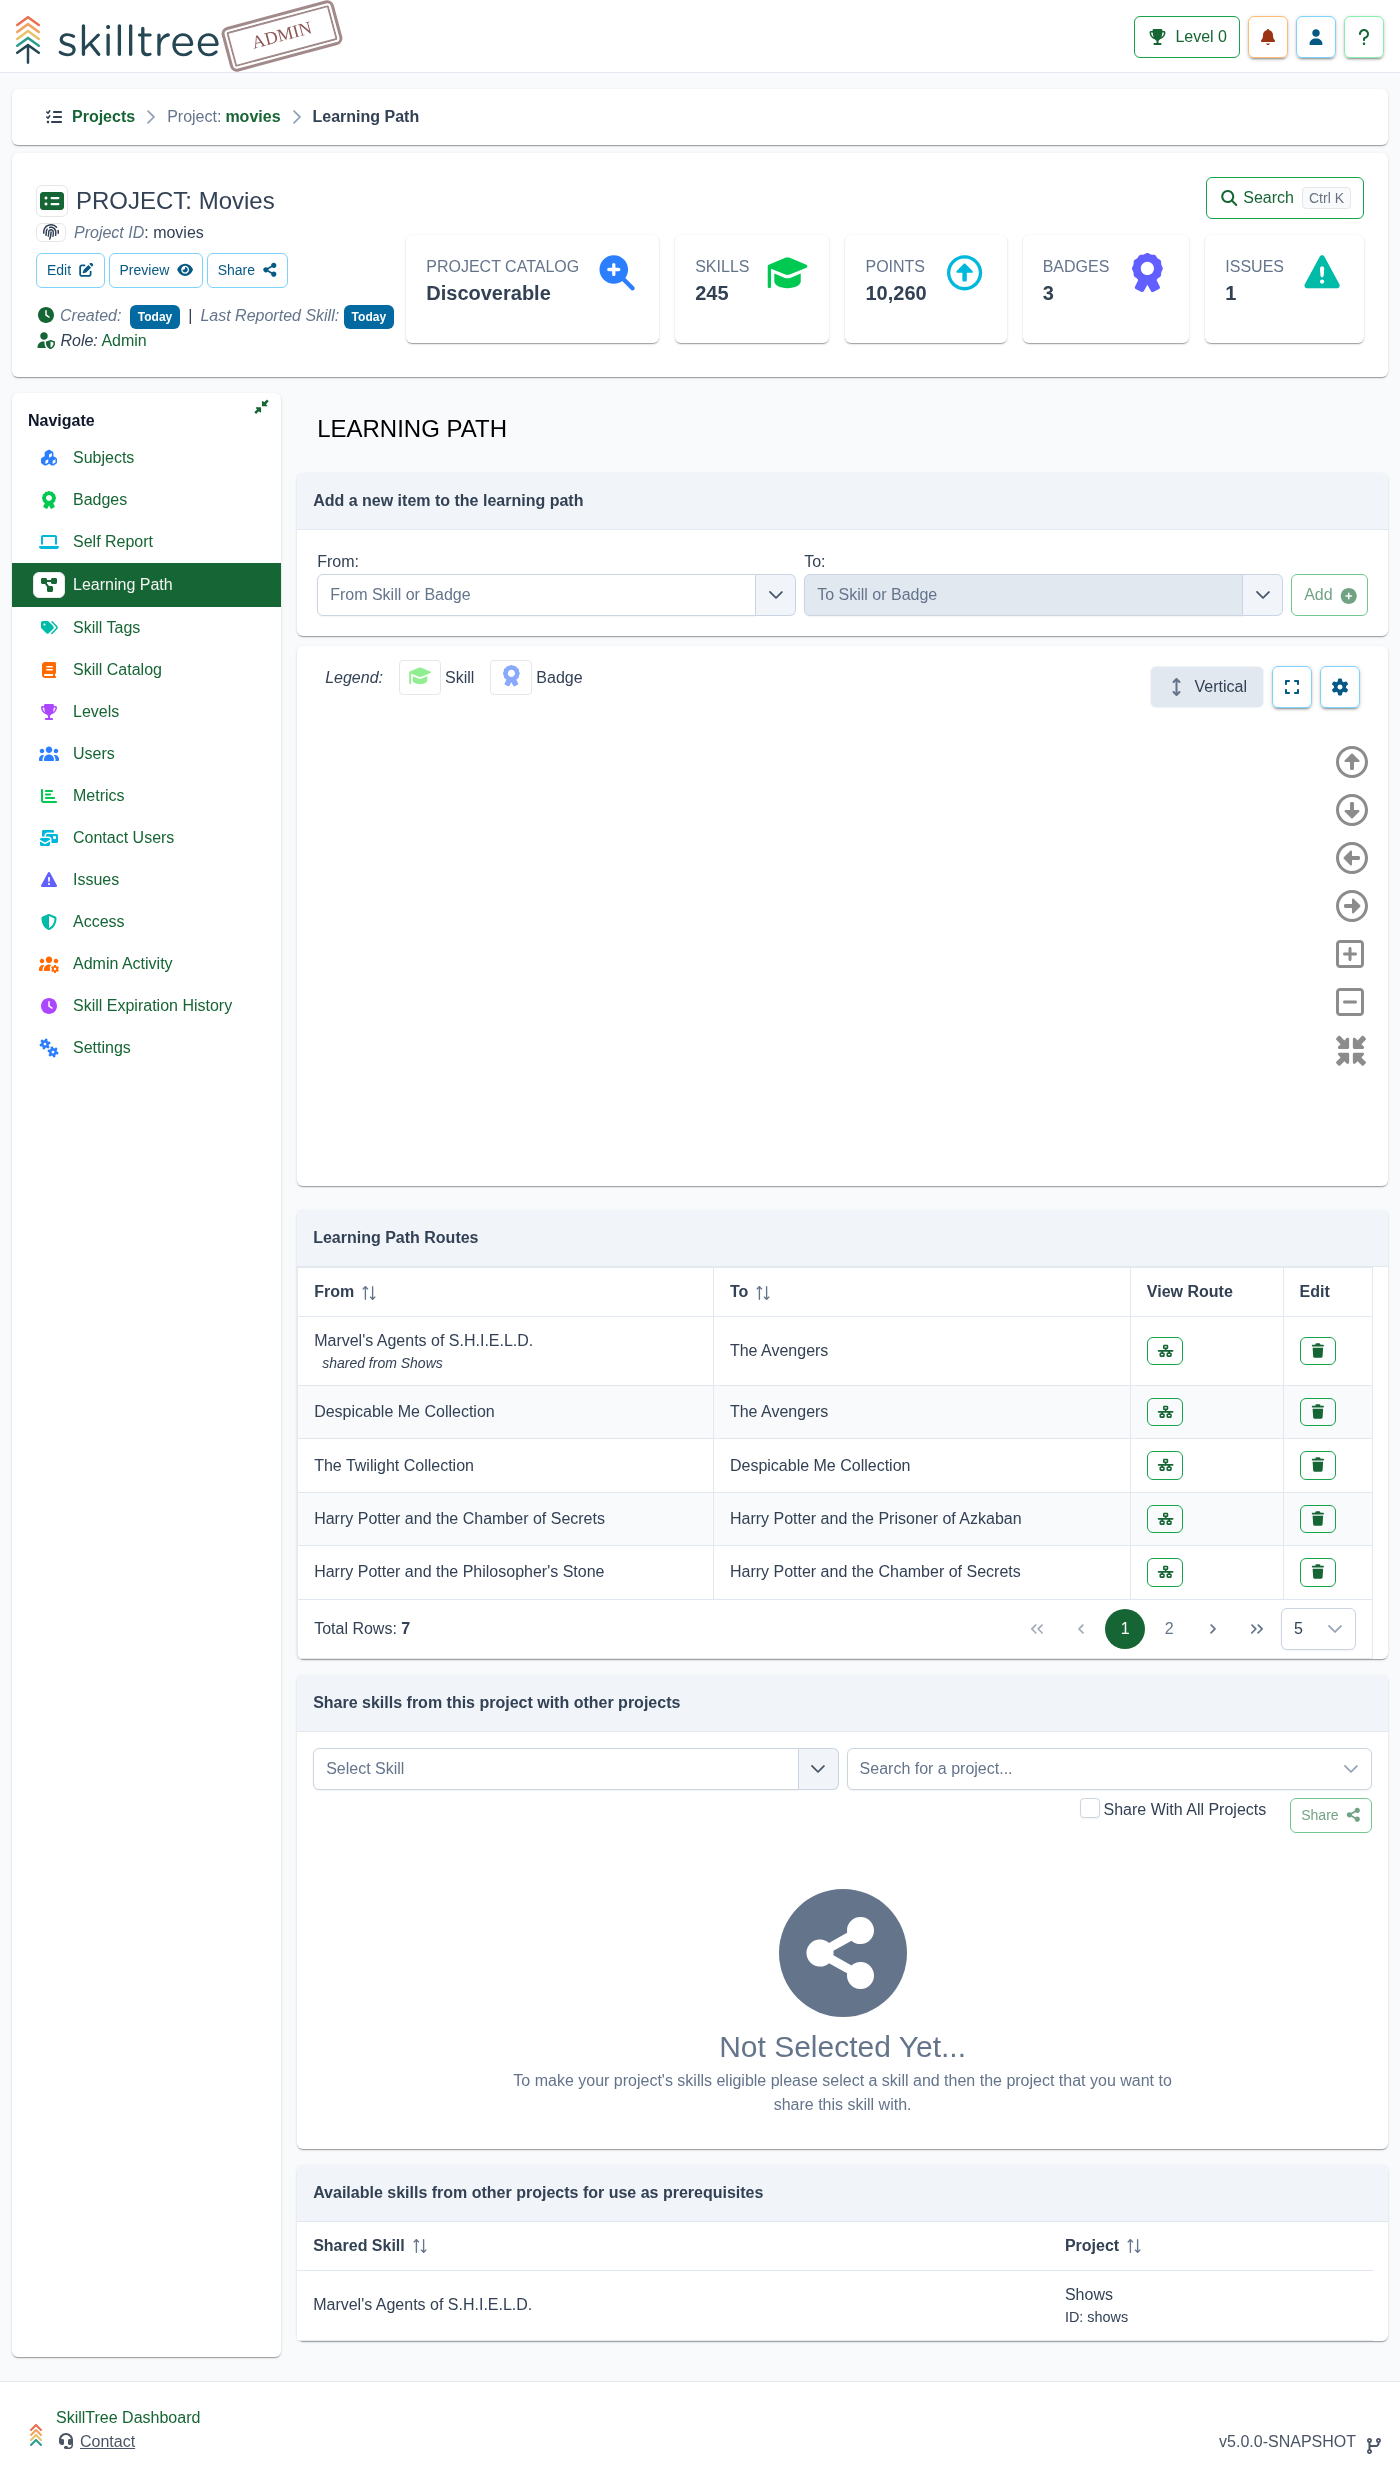
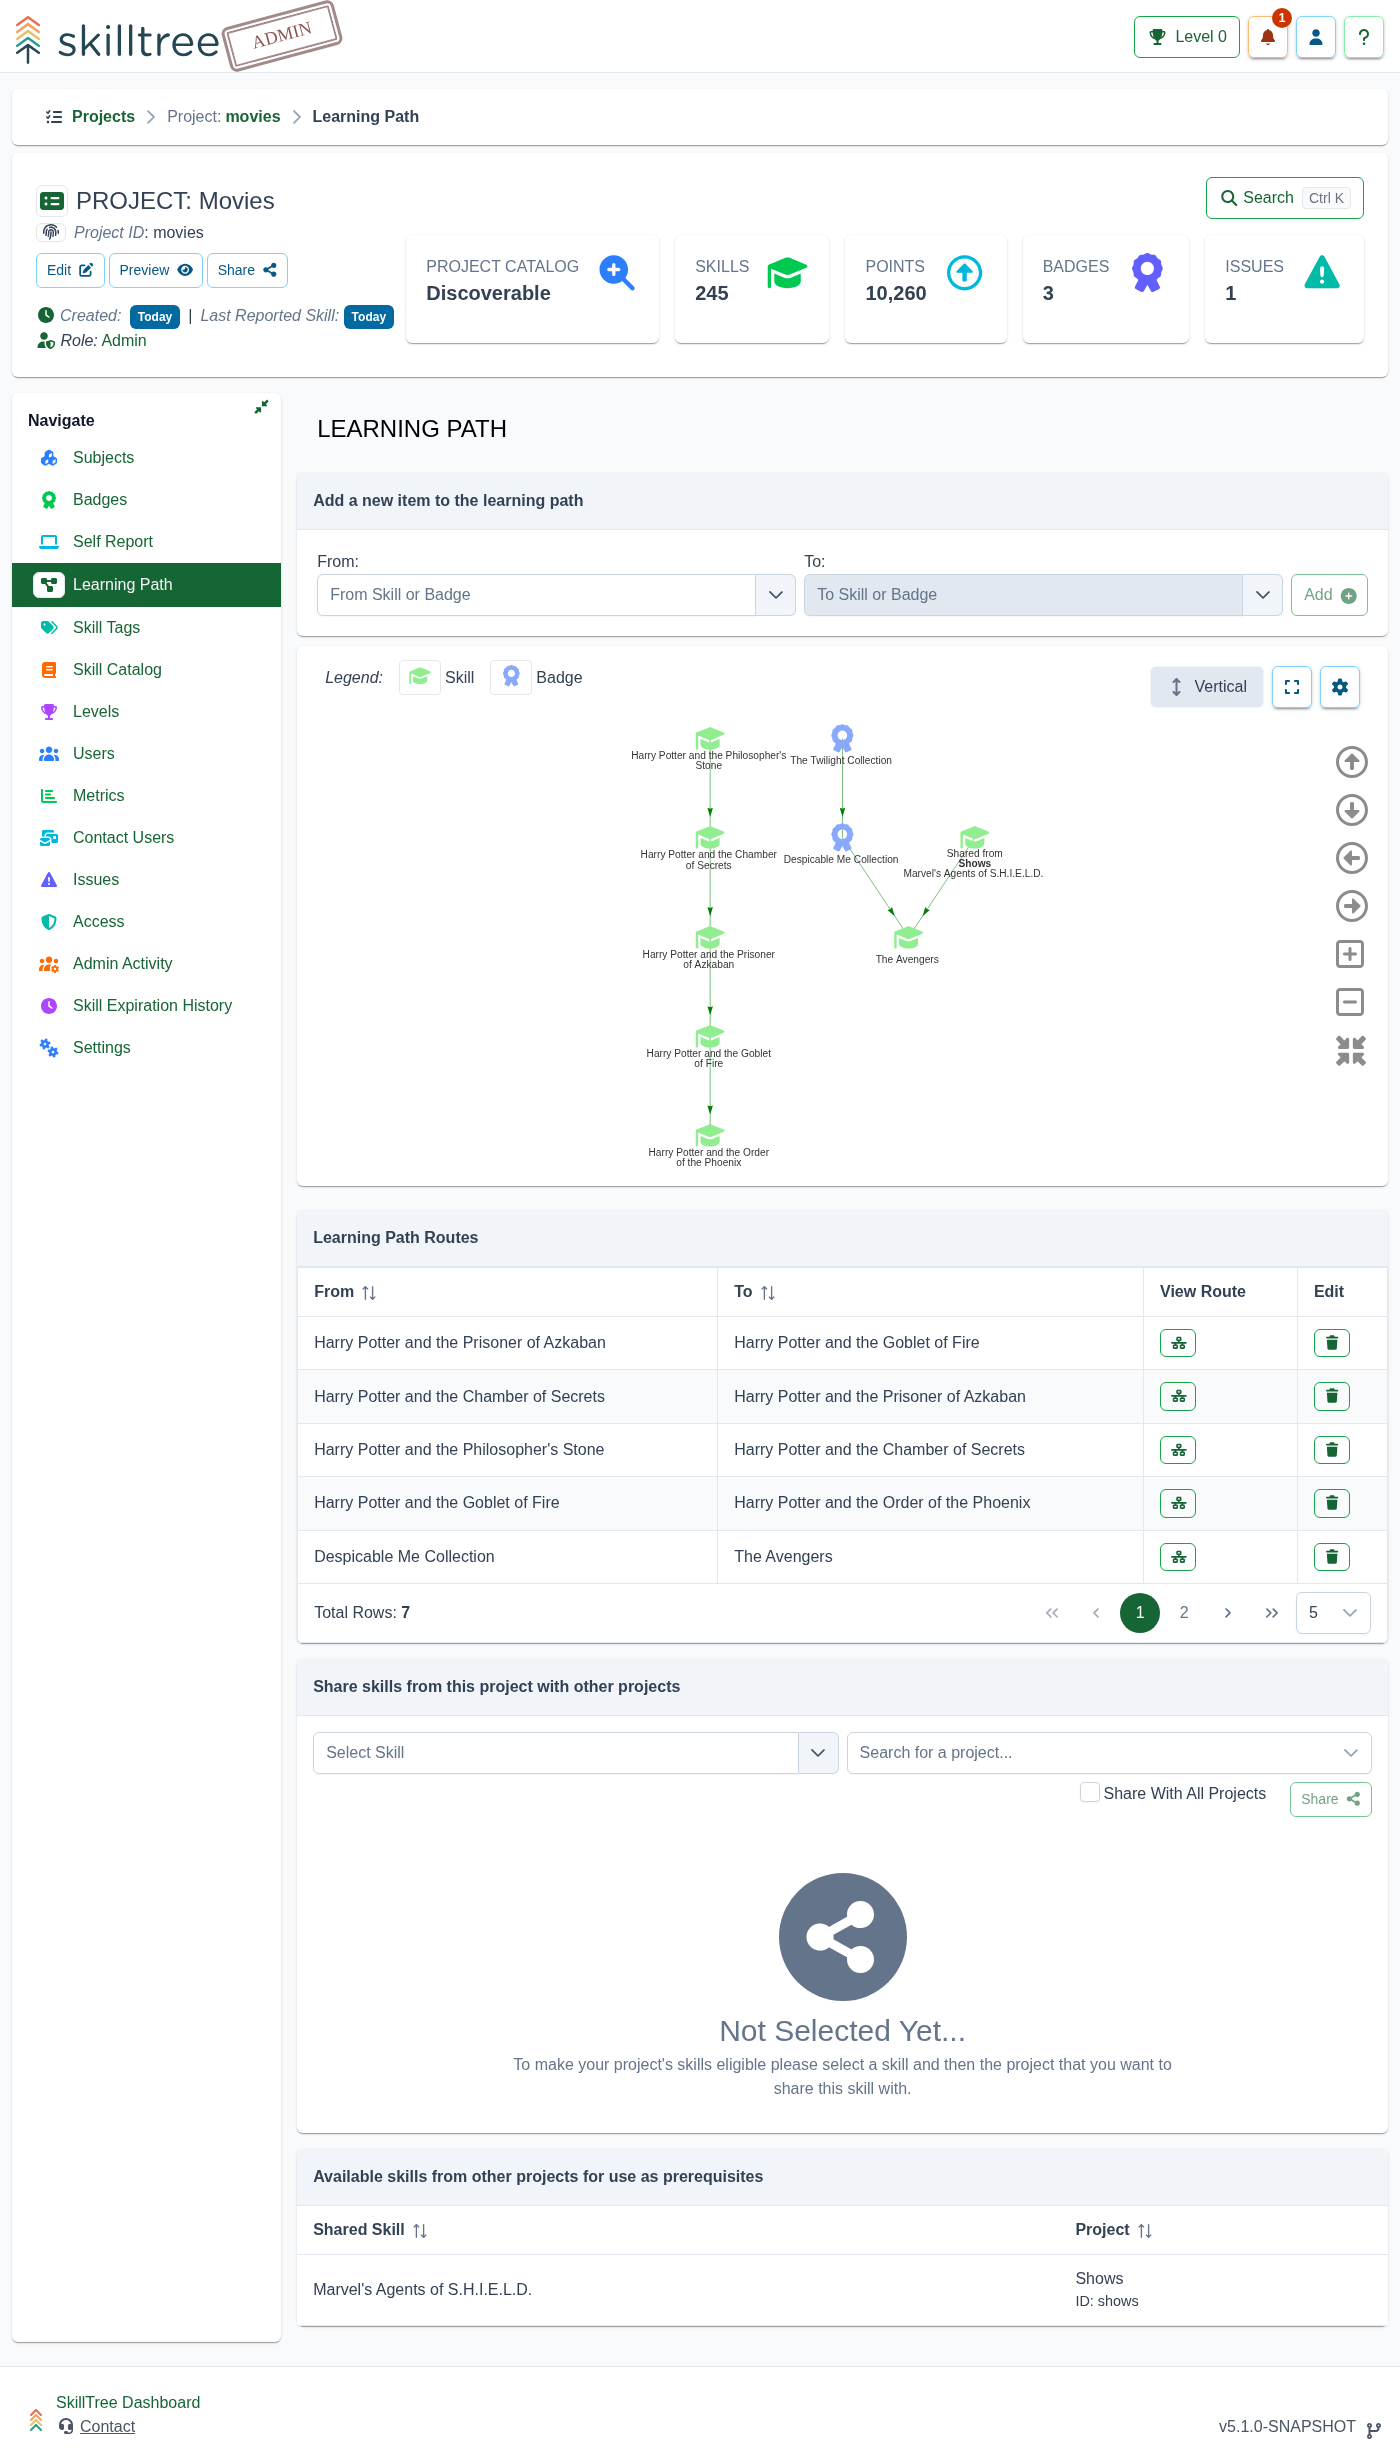
fixed learning path screenshot

diff --git a/cypress/e2e/admin.cy.js b/cypress/e2e/admin.cy.js
@@ -247,7 +247,7 @@ context('Admin: Generate Screenshots', () => {
 
     it('Gen Learning Path', () => {
         cy.visit('/administrator/projects/movies/learning-path')
-        cy.viewport(1400, 1200);
+        cy.viewport(1400, 1400);
         cy.get('[data-cy="graphLegend"]')
         cy.get('[data-cy="learningPathTable"] [data-cy="skillsBTableTotalRows"]')
         cy.wait(5000);
